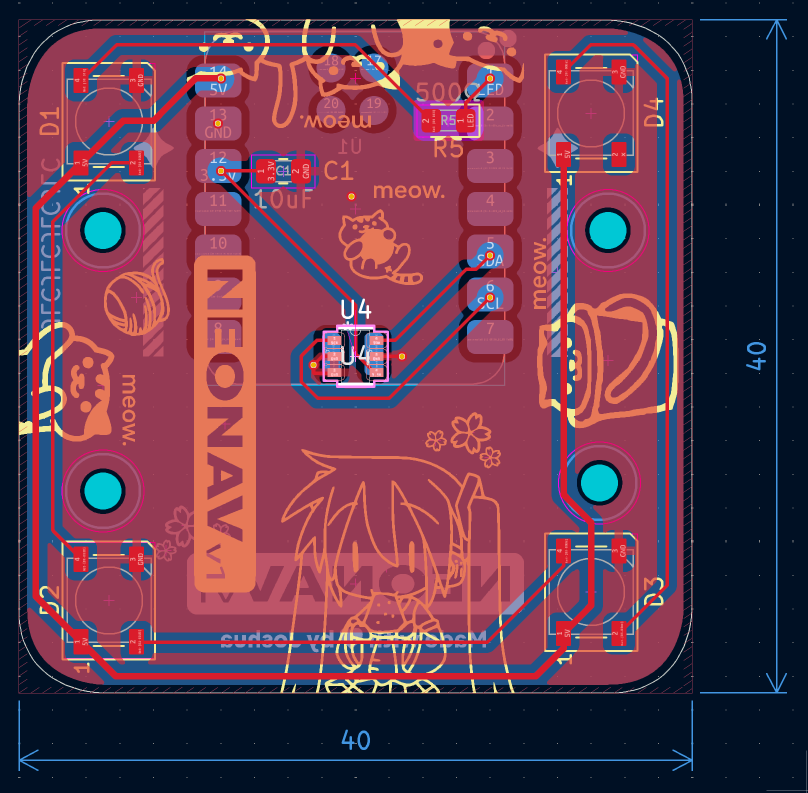
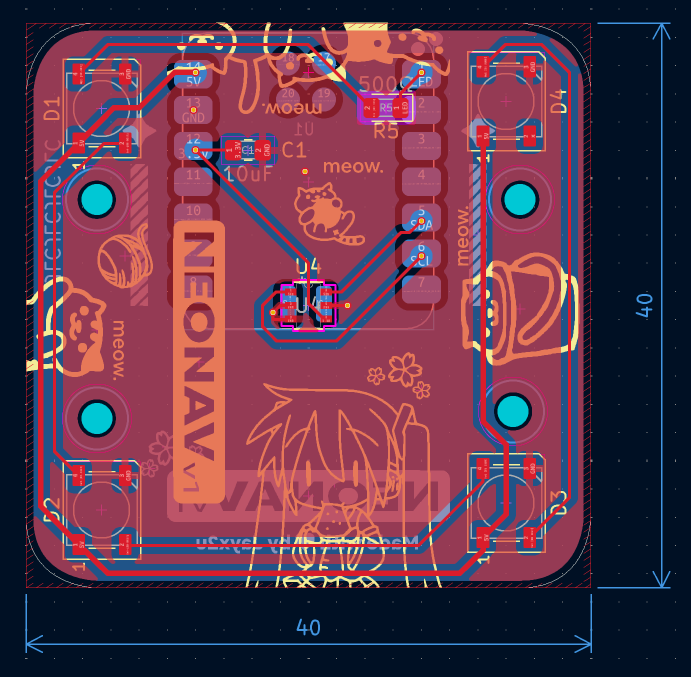
Update Journal and assets

diff --git a/JOURNAL.md b/JOURNAL.md
@@ -9,7 +9,7 @@ created_at: "2025-06-02"
 
 I want to make a ✨ **computer mouse** ✨. _Revolutionary idea I know right..._ but it's a mouse that can move in a 3D space. Using trackpad for Fusion 360 is pretty annoying so why not make a computer mouse that can pan, home, orbit and fit view by just moving your wrist a bit! There's already a product called _3Dconnexion Spacemouse_ but I am NOT paying A$299 for that...
 
-`SCR-20250602-knwy`
+![](https://github.com/Jayx2u/neonav/blob/main/assets/SCR-20250602-knwy.png?raw=true)
 
 So how do I make something that can turn hand movements into 3D movement on the screen? My system IPO looks like this:
 - **Input:** A control object moves from human hand movements
@@ -22,11 +22,11 @@ back to its home position when released.
 
 TDLR: Here's what I got in mind:
 
-`mechanical-cad`
+![](https://github.com/Jayx2u/neonav/blob/main/assets/mechanical-cad.png?raw=true)
 
 I want to first see if I can feasibly track in the x, y, z axis using a magnetometer so using a few parts that I "borrowed," I made this proof-of-concept!
 
-`mag-prototype`
+![](https://github.com/Jayx2u/neonav/blob/main/assets/mag-prototype.jpeg?raw=true)
 
 It has a _Adafruit TLV493D Triple-Axis Magnetometer_ connected to an Arduino Uno. Here is code to read it!
 ```c
@@ -68,7 +68,7 @@ void loop() {
 ```
 And here it is in action, it works :D
 
-`SCR-20250602-lafm`
+![](https://github.com/Jayx2u/neonav/blob/main/assets/SCR-20250602-lafm.png?raw=true)
 
 *Time spent: 5h*
 
@@ -76,20 +76,18 @@ And here it is in action, it works :D
 
 Yeah so this idea was left in the dust for a while... but it's basically the school holidays! Time to design a PCB for the magnetometer and microcontroller. "Off-camera grinding" led to this schematic:
 
-`SCR-20250624-ldey`
+![](https://github.com/Jayx2u/neonav/blob/main/assets/SCR-20250624-ldey.png?raw=true)
 
-A _Seed Studio Xiao RP2040_ as the brains (as I've had previous experience with it and it was very nice) with a _TLV493DA1B6HTSA2_ (basically the same as the one from the proof-of-concept) for the magnetometer sensor. Also level shifting to converting 5V to 3.3V. 
-
-`SCR-20250624-lfbm`
+A _Seed Studio Xiao RP2040_ as the brains (as I've had previous experience with it and it was very nice) with a _TLV493DA1B6HTSA2_ (basically the same as the one from the proof-of-concept) for the magnetometer sensor. Also level shifting to converting 5V to 3.3V.
 
 And with that, PCB design:
 
-`SCR-20250624-lhzx`
+![](https://github.com/Jayx2u/neonav/blob/main/assets/SCR-20250624-lhzx.png?raw=true)
 
 Very nice design with cats and miku I know right. Showed this to one of my friends annndddd they're like "why do you need level shifting..." which was a great question. Turns out, I don't need it. My beautiful tracing all going to waste :c
 
-`SCR-20250624-lnop`
-`SCR-20250624-loda`
+![](https://github.com/Jayx2u/neonav/blob/main/assets/SCR-20250624-lnop.png?raw=true)
+![](https://github.com/Jayx2u/neonav/blob/main/assets/SCR-20250624-loda.png?raw=true)
 
 Some deleting and changes to the traces later, we have the final PCB design done!
 
